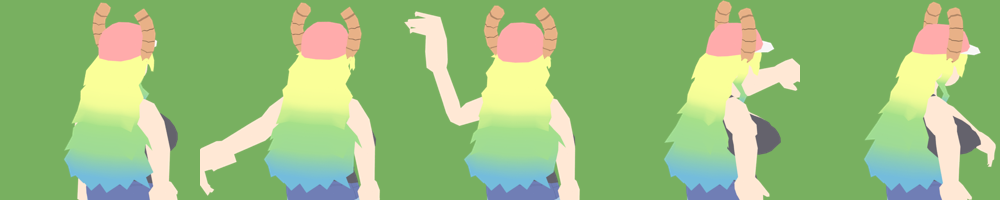
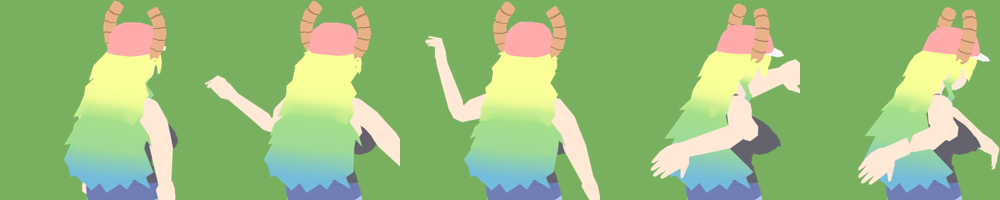
Lucoa back picture: Red's hands at Lucoa's size, right arm like Red's, more forward lean
Claude-Session: https://claude.ai/code/session_01PFRhGfDJhE1fCmd6x4xB4j

diff --git a/tools/rh/lucoa/v6/pose.py b/tools/rh/lucoa/v6/pose.py
@@ -28,19 +28,22 @@ def twist(arm, name, axis, deg):
 DOWN_L = [('LeftArm', (0.22, -1, 0.05)), ('LeftForeArm', (0.08, -1, 0.15)), ('LeftHand', (0.05, -1, 0.2))]
 DOWN_R = [('RightArm', (-0.22, -1, 0.05)), ('RightForeArm', (-0.08, -1, 0.15)), ('RightHand', (-0.05, -1, 0.2))]
 TW1, TW2, TW3, TW4 = [float(v) for v in os.environ.get('TW', '15,22,-18,-24').split(',')]
+LEAN = [float(v) for v in os.environ.get('LEAN', '10,13,8,18,24').split(',')]
 POSES = [
-    # (spine twist deg about up axis, spine lean fwd deg, left (throwing) arm, right arm)
-    (0, 0, DOWN_L, DOWN_R),
-    # wind-up: left arm swings down and back
-    (TW1, 3, [('LeftArm', (0.55, -0.8, -0.3)), ('LeftForeArm', (0.7, -0.55, -0.45)), ('LeftHand', (0.7, -0.5, -0.45))], DOWN_R),
-    # cocked: left arm up and back, ball hand above the shoulder
-    (TW2, -2, [('LeftArm', (0.8, -0.5, -0.3)), ('LeftForeArm', (0.2, 1, -0.25)), ('LeftHand', (0.1, 1, -0.15))], DOWN_R),
-    # release: left arm sweeps forward and up toward the foe
-    (TW3, 8, [('LeftArm', (-0.75, 0.4, 0.55)), ('LeftForeArm', (-0.85, 0.35, 0.4)), ('LeftHand', (-0.85, 0.3, 0.4))],
-     [('RightArm', (-0.5, -0.7, -0.45)), ('RightForeArm', (-0.4, -0.7, -0.4)), ('RightHand', (-0.4, -0.7, -0.4))]),
-    # follow-through: left arm comes down across in front
-    (TW4, 14, [('LeftArm', (-0.65, -0.35, 0.7)), ('LeftForeArm', (-0.8, -0.5, 0.35)), ('LeftHand', (-0.8, -0.55, 0.25))],
-     [('RightArm', (-0.45, -0.8, -0.3)), ('RightForeArm', (-0.3, -0.8, -0.2)), ('RightHand', (-0.3, -0.8, -0.2))]),
+    # (spine twist deg about up axis, spine lean fwd deg, left (throwing) arm, right arm like Red's other arm)
+    (0, LEAN[0], DOWN_L, DOWN_R),
+    # wind-up: left arm down, forearm up to the hand; right arm swung out down-right
+    (TW1, LEAN[1], [('LeftArm', (0.4, -0.9, -0.2)), ('LeftForeArm', (0.5, 0.55, -0.55)), ('LeftHand', (0.45, 0.7, -0.45))],
+     [('RightArm', (-0.75, -0.7, 0.1)), ('RightForeArm', (-0.7, -0.7, 0.15)), ('RightHand', (-0.7, -0.7, 0.15))]),
+    # cocked: elbow out, fist beside her head; right arm down, a little out
+    (TW2, LEAN[2], [('LeftArm', (0.8, -0.5, -0.3)), ('LeftForeArm', (0.2, 1, -0.25)), ('LeftHand', (0.1, 1, -0.15))],
+     [('RightArm', (-0.4, -0.9, 0.05)), ('RightForeArm', (-0.35, -0.9, 0.15)), ('RightHand', (-0.35, -0.9, 0.15))]),
+    # release: left arm sweeps toward the foe; right arm pulled back and bent, hand by the far hip
+    (TW3, LEAN[3], [('LeftArm', (-0.75, 0.4, 0.55)), ('LeftForeArm', (-0.85, 0.35, 0.4)), ('LeftHand', (-0.85, 0.3, 0.4))],
+     [('RightArm', (-0.25, -0.7, -0.7)), ('RightForeArm', (0.6, -0.35, -0.6)), ('RightHand', (0.6, -0.4, -0.5))]),
+    # follow-through: left arm down across in front; right arm still back and bent
+    (TW4, LEAN[4], [('LeftArm', (-0.65, -0.35, 0.7)), ('LeftForeArm', (-0.8, -0.5, 0.35)), ('LeftHand', (-0.8, -0.55, 0.25))],
+     [('RightArm', (-0.25, -0.75, -0.6)), ('RightForeArm', (0.6, -0.45, -0.5)), ('RightHand', (0.6, -0.5, -0.4))]),
 ]
 
 def grow_horns(mesh, k):
@@ -74,7 +77,7 @@ def apply_pose(arm, i):
         for b in ('Arm', 'ForeArm'):
             pb = arm.pose.bones['mixamorig:' + side + b]; pb.scale = (1.25, 1.0, 1.25)
             for c in pb.children: c.scale = (1 / 1.25, 1.0, 1 / 1.25)
-        arm.pose.bones['mixamorig:' + side + 'Hand'].scale = (1.3, 1.3, 1.3) if i < 3 else (1.0, 1.0, 1.0)
+        arm.pose.bones['mixamorig:' + side + 'Hand'].scale = (1.0, 1.0, 1.0)
     # (frames 2-3 get a hand-drawn fist in convert.py)
     # throwing hand: fingers curled around the ball
     if True:

diff --git a/tools/rh/lucoa/v6/red_hands_small.py b/tools/rh/lucoa/v6/red_hands_small.py
@@ -1,0 +1,46 @@
+# Red's FR/LG throwing hands (his frames 2 and 3) redrawn at ~70% size to fit Lucoa's slimmer arms,
+# not mirrored. O = outline, n = Red's finger lines, m = skin, L = skin highlight, M = arm shadow,
+# '.' = clear, ' ' = keep what's there. 'wrist' = where the patch's top-left goes.
+import backpal
+from red_hands import MID, LINE, SK
+HANDS = {
+    1: {'at': (5, 22), 'rows': [        # open hand, fingers up, thumb out to the right (Red's frame 2)
+        "...nn.....",
+        "..nmLn....",
+        ".nmnLn..nn",
+        ".nmnmmnnLn",
+        "OmLmmmmmLO",
+        "OmmmmmmmmO",
+        "Ommmmmmmn.",
+        ".Ommmmmmn.",
+        "..OmmmmmO.",
+        "...OOmmmMO",
+    ]},
+    2: {'at': (8, 8), 'rows': [         # raised hand, fingers curled over, thumb up (Red's frame 3)
+        ".On...OO.",
+        "nmmO.OLLO",
+        ".nmmOnmLn",
+        ".Ommmmmmn",
+        ".Ommmmmmn",
+        "..nmmmmmO",
+        "..OmmmmO.",
+        "...OmmO..",
+    ]},
+}
+def erase(img, i):
+    if i == 1:      # the rendered hand: everything past the wrist, up and to the left
+        for y in range(18, 33):
+            for x in range(0, 15):
+                if (x - 10) * -0.8 + (y - 31) * -0.6 > 0.5 and img[y][x] in (backpal.O,) + tuple(SK): img[y][x] = None
+    if i == 2:
+        for y in range(6, 16):
+            for x in range(5, 18):
+                if img[y][x] in (backpal.O,) + tuple(SK): img[y][x] = None
+def apply(img, i):
+    if i not in HANDS: return
+    erase(img, i)
+    C = {'O': backpal.O, 'L': SK[0], 'M': SK[2], 'm': MID, 'n': LINE, '.': None}
+    ax, ay = HANDS[i]['at']
+    for dy, row in enumerate(HANDS[i]['rows']):
+        for dx, c in enumerate(row):
+            if c != ' ': img[ay + dy][ax + dx] = C[c]

diff --git a/tools/rh/lucoa/v6/convert.py b/tools/rh/lucoa/v6/convert.py
@@ -140,8 +140,16 @@ if __name__ == '__main__':
             import red_hands
             cfg = json.loads(os.environ.get('REDCFG', '{}'))
             if str(i) in cfg: red_hands.apply(out, i, *cfg[str(i)]); red_hands.fix(out, i)
+        if FIST_MODE == 'redsmall':
+            import red_hands_small; red_hands_small.apply(out, i)
         if FIST_MODE == 'manual':
             import hands_manual; hands_manual.apply(out, i)
+        # fill pinholes (a clear pixel with 3+ filled neighbours) with outline: no stray checkerboards
+        for _ in range(2):
+            for y in range(1, 63):
+                for x in range(1, 63):
+                    if out[y][x] is None and sum(out[y + dy][x + dx] is not None for dx, dy in ((1, 0), (-1, 0), (0, 1), (0, -1))) >= 3:
+                        out[y][x] = backpal.O
         frames.append(to_img(out))
     sheet = Image.new('RGBA', (64, 320), (0, 0, 0, 0))
     for i, fr in enumerate(frames): sheet.alpha_composite(fr, (0, 64 * i))

diff --git a/tools/rh/lucoa/v6/README.md b/tools/rh/lucoa/v6/README.md
@@ -4,14 +4,16 @@ Made with Blender (`pip install bpy`) from the owner's rigged Lucoa model, which
 Put it at `model/01- Quetzalcoatl Lucoa/` and run from the folder above `m3d/`, with these scripts in `m3d/`:
 
     for m in flat lit; do YAW=215 SHX=-0.12 SUNZ=160 TW=15,22,-28,-30 CURL=55 python3 m3d/pose.py $m; done
-    FIST=red REDCFG='{"1": [[7,48], "flipv", [0,46,8,58]], "2": [[11,17], "none", [3,5,17,17]]}' python3 m3d/convert.py
+    FIST=redsmall python3 m3d/convert.py
 
-- `pose.py` poses the Mixamo skeleton in Red's five throw poses (left arm throws), enlarges the horns,
+- `pose.py` poses the Mixamo skeleton in Red's five throw poses (left arm throws, right arm like Red's, leaning forward), enlarges the horns,
   thickens the arms a little and renders a flat-colour pass and a lit pass from behind (512px).
 - `convert.py` turns each render into 64x64: material by majority vote, tone from the lit pass, then
   outlines, horn rings, wavy hair colour bands and the cap's snapback opening.
 - `backpal.py` is the palette, based on the owner's normal.png.
-- `red_hands.py` puts Red's FR/LG hands (cut at his wristband, recoloured to Lucoa's skin) on frames 2 and 3,
+- `red_hands_small.py` = Red's FR/LG hands from his frames 2 and 3, redrawn at ~70% to fit Lucoa's arms
+  (frames 2 and 3). `red_hands.py` holds the shared colours.
+- (older) `red_hands.py` put Red's FR/LG hands (cut at his wristband, recoloured to Lucoa's skin) on frames 2 and 3,
   with a few joining pixels at the wrist. (`hands_manual.py`/`fist.py` = earlier attempts, unused.)
 
 `back_sheet.png` = the 5 frames stacked (64x320). Not in the game yet.
